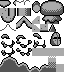
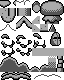
Palmtrees added

diff --git a/src/game/groundlayer.ts b/src/game/groundlayer.ts
@@ -223,6 +223,10 @@ export class GroundLayer {
 
     private spawnSpecialPlatform() : void {
 
+        //
+        // TODO: This is a horrible mess
+        //
+
         const MIN_HEIGHT = 3;
         const MAX_HEIGHT = 5;
 
@@ -231,7 +235,7 @@ export class GroundLayer {
 
         const MUSHROOM_MAX_HEIGHT = 6;
         
-        const TYPE_PROB = [0.75, 0.5];
+        const TYPE_PROB = [0.40, 0.30, 0.30];
 /*
         if (this.activebackgroundType == TileType.Surface ||
             (this.activebackgroundType == TileType.None &&
@@ -242,7 +246,7 @@ export class GroundLayer {
         if (this.backgroundWait <= 3 || (-- this.specialWait) > 0) 
             return;
 
-        const width = sampleUniform(MIN_WIDTH, MAX_WIDTH);
+        let width = sampleUniform(MIN_WIDTH, MAX_WIDTH);
 
         let groundHeight = this.activeHeight;
         if (this.activebackgroundType != TileType.None ||
@@ -250,20 +254,47 @@ export class GroundLayer {
 
             groundHeight = this.activeBackgroundHeight;
         }
-        const height = groundHeight + sampleUniform(MIN_HEIGHT, MAX_HEIGHT);
+
+        let height = groundHeight + sampleUniform(MIN_HEIGHT, MAX_HEIGHT);
+        let distanceFromGround = 0;
         
         let type = weightedProbability(TYPE_PROB) as SpecialPlatformType;
-        if (width == MAX_WIDTH) {
+
+        const hasGround = this.activebackgroundType == TileType.Surface ||
+            (this.activeType == TileType.Surface && this.slopeDir == SlopeDirection.None);
+        const tooHigh = height >= this.activeHeight + MUSHROOM_MAX_HEIGHT;
+
+        // Check if the type is compatible with the terrain
+        if (type == SpecialPlatformType.PalmTree && !hasGround) {
+
+            type = tooHigh ? SpecialPlatformType.FloatingPlatform :  SpecialPlatformType.Mushroom;
+        }
+        else if (type == SpecialPlatformType.PalmTree && hasGround) {
+
+            distanceFromGround = sampleUniform(2, 3);
+            if (this.activebackgroundType == TileType.None) {
+                height = this.activeHeight + distanceFromGround;
+                ++ this.slopeWait;
+            }
+            else {
+                
+                height = this.activeBackgroundHeight + distanceFromGround;
+                this.backgroundSlopeWait = 2; 
+            }
+        }
+        else if (width == MAX_WIDTH) {
 
             type = SpecialPlatformType.Mushroom;
         }
-        else if (height >= this.activeHeight + MUSHROOM_MAX_HEIGHT) {
+        else if (tooHigh) {
 
             type = SpecialPlatformType.FloatingPlatform;
         }
 
+
         next<SpecialPlatform>(SpecialPlatform, this.specialPlatforms)
-            .spawn(this.width*16 - X_SHIFT*16 + (this.tileOffset % 16), height*16, width, type);
+            .spawn(this.width*16 - X_SHIFT*16 + (this.tileOffset % 16), 
+                height*16, width, type, distanceFromGround);
 
         this.specialWait = sampleUniform(width + 1, SPECIAL_WAIT_MAX);
     }
@@ -273,9 +304,9 @@ export class GroundLayer {
         
         this.updateSlope();
         this.updateType();
-        this.updateBackground();
         this.spawnSpecialPlatform();
-
+        this.updateBackground();
+        
         this.heights[this.tilePointer] = this.activeHeight;
         this.types[this.tilePointer] = this.activeType;
         this.directions[this.tilePointer] = this.slopeDir; 

diff --git a/src/game/specialplatform.ts b/src/game/specialplatform.ts
@@ -9,7 +9,8 @@ import { GameObject } from "./gameobject.js";
 export const enum SpecialPlatformType {
 
     Mushroom = 0,
-    FloatingPlatform = 1
+    FloatingPlatform = 1,
+    PalmTree = 2,
 };
 
 
@@ -18,6 +19,7 @@ export class SpecialPlatform extends ExistingObject {
 
     private pos : Vector;
     private width : number = 0;
+    private height : number = 0;
     private type : SpecialPlatformType = SpecialPlatformType.Mushroom;
 
 
@@ -29,11 +31,16 @@ export class SpecialPlatform extends ExistingObject {
     }
 
 
-    public spawn(x : number, y : number, width : number, type = SpecialPlatformType.Mushroom) : void {
+    public spawn(x : number, y : number, width : number, type : SpecialPlatformType, height = 0) : void {
 
         if (type == SpecialPlatformType.Mushroom && width <= 2) {
 
             type = SpecialPlatformType.FloatingPlatform;
+        }
+        else if (type == SpecialPlatformType.PalmTree) {
+
+            width = 2;
+            this.height = height;
         }
 
         this.pos.x = x;
@@ -65,6 +72,7 @@ export class SpecialPlatform extends ExistingObject {
 
         const dx = Math.round(this.pos.x);
         const dy = canvas.height - this.pos.y;
+        const mushroomHeight = ((canvas.height - dy) / 16) | 0;
 
         let sx : number;
 
@@ -87,8 +95,7 @@ export class SpecialPlatform extends ExistingObject {
             // Ring
             canvas.drawBitmap(bmp, dx - 12, dy + 16, 124, 16, 24, 16);
             // Leg
-            const count = ((canvas.height - dy) / 16) | 0;
-            for (let y = 2; y < count; ++ y) {
+            for (let y = 2; y < mushroomHeight; ++ y) {
 
                 canvas.drawBitmap(bmp, dx - 8, dy + y*16, 128, 32, 16, 16);
             }
@@ -118,6 +125,23 @@ export class SpecialPlatform extends ExistingObject {
                 canvas.drawBitmap(bmp, dx - this.width*8 + j*16, dy, sx, 32, 16, 16);
             }
 
+            break;
+
+        // Palm tree
+        case SpecialPlatformType.PalmTree:
+
+            // Leaves
+            canvas.drawBitmap(bmp, dx - 16, dy - 1, 160, 0, 32, 9);
+            // Trunk
+            for (let j = 0; j < this.height - 1; ++ j) {
+
+                canvas.drawBitmap(bmp, dx - 8, dy + 8 + j*16, 168, 9, 16, 16);
+            }
+            canvas.drawBitmap(bmp, dx - 8, dy + 8 + (this.height - 1)*16, 168, 25, 16, 16);
+
+            break;
+
+        default:
             break;
         }
     }

diff --git a/src/game/assetgen.ts b/src/game/assetgen.ts
@@ -23,6 +23,7 @@ const PALETTE = [
     "aaaaffff", // G Lighter purple
     "0055aaff", // H Darker blue,
     "55aaffff", // I Lighter blue
+    "005500ff", // J Dark green
 ];
 
 
@@ -35,8 +36,9 @@ const COLOR_MAP = [
     "1FG0", "1FG0", "1FG0", "1FG0", "1FG0", "1FG0", "1DC0", "1DC0",
     "1B80", "1B80", "1B80", "1B80", "1B80", "1B80", "1DC0", "1DC0",
     "1B80", "1B80", "1B80", "1B80", undefined, undefined, undefined, undefined,
-    "H2I0", "H2I0", "H2I0", "H2I0", "H2I0", "H2I0", "0HI2", undefined, 
-    "H2I0", "H2I0", "H2I0", "H2I0", "H2I0", "H2I0", "0HI2", undefined, 
+    "H2I0", "H2I0", "H2I0", "H2I0", "H2I0", "H2I0", "0HI2", "1780", 
+    "H2I0", "H2I0", "H2I0", "H2I0", "H2I0", "H2I0", "0HI2", "1780", 
+    "1J50", "1J50", "1J50", "1J50", "0400", "0400", "0400", "0400",
 ];
 
 
@@ -166,6 +168,27 @@ const generateTerrainTileset = (c : CanvasRenderingContext2D,
     }
 
 
+
+    //
+    // Palm tree
+    //
+
+    // Leaves
+    for (let i = 0; i < 2; ++ i) {
+
+        c.drawImage(base, i*32, 72, 32, 8, 152, 1, 32, 8);
+        // Missing pixels
+        c.fillRect(152 + 8 + i*11, 0, 5, 1);
+    }
+    
+    // Trunk
+    for (let i = 0; i < 2; ++ i) {
+
+        put(7, 7, 20, 1 + i, 4, 1);
+    }
+    put(7, 8, 20, 3, 4, 1);
+    
+
     //
     // Mushrooms
     //
@@ -194,6 +217,7 @@ const generateTerrainTileset = (c : CanvasRenderingContext2D,
         put(5 + i*2, 0, 13 + i*5, 0);
         put(5 + i*2, 1, 13 + i*5, 1);
     }
+
 }
 
 

diff --git a/src/game/game.ts b/src/game/game.ts
@@ -93,7 +93,7 @@ export class Game implements Scene {
 
         this.drawBackground(canvas, bmpBase);
 
-        // canvas.drawBitmap(assets.getBitmap("terrain"), 0, 0);
+        // canvas.drawBitmap(assets.getBitmap("terrain"), -32, 0);
 
         this.camera.use(canvas);
 
